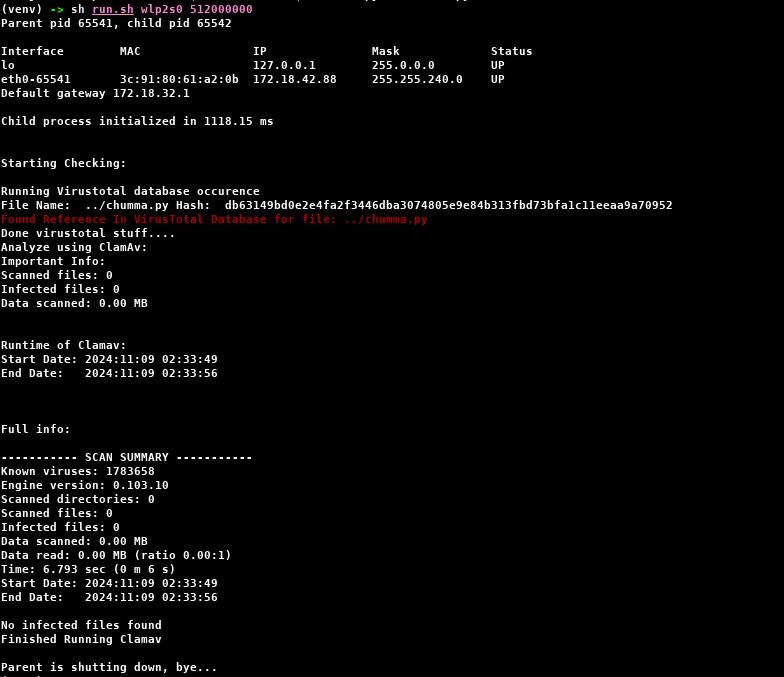
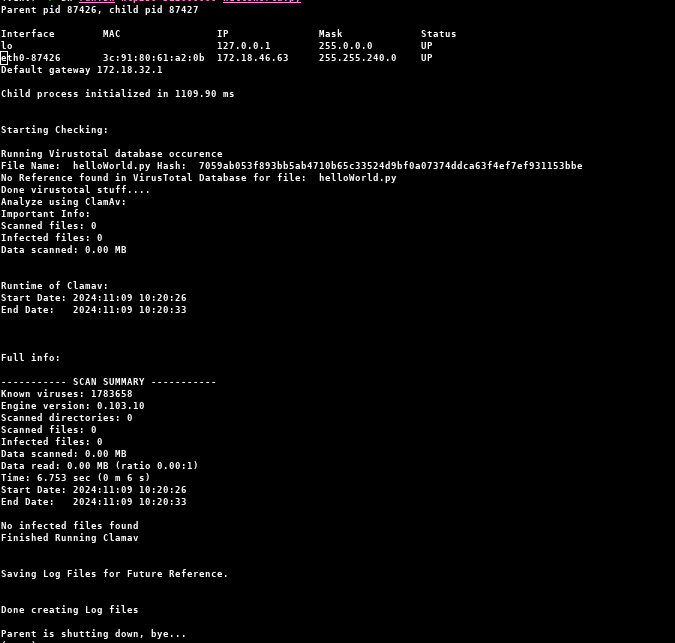
Developed Version 0.5

diff --git a/main.py b/main.py
@@ -1,7 +1,8 @@
 #!/home/elcot/Personal/problem1/venv/bin/python3
 import sys
+import argparse
 import os
-from dotenv import load_dotenv
+from dotenv import load_dotenv # this module is for protecting our API
 from check_vt import runVirusTotal
 from script import clamavStuff
 from datetime import datetime
@@ -15,51 +16,70 @@ API_KEY = os.getenv('API_KEY')
 
 # Global Variables
 # ANSI escape code for red text
-RED = "\033[31m"
+RED = "\033[31m" # READ ESCAPE COLOR
 RESET = "\033[0m"  # Reset to default color
 
+
+# Creating the parser
+parser = argparse.ArgumentParser(description='Malware Analysis Program')
+# Add arguments
+parser.add_argument('--file', type=str, required=True, help='The path to the file to process.')
+parser.add_argument('--network_status', type=str, choices=['yes', 'no'], default='no', help='Network status (yes or no).')
+# Parse the arguments
+args = parser.parse_args()
+
+
 def createLogFile():
-    # creating a log file for future reference or debugging
+    # creating timestamp of log files...that is changing name....one from json and another form clamavLog...
     log_file_name = datetime.now().strftime("%Y_%m_%d_%H_%M_%S")
-    log_path = "logs/"+log_file_name+".txt"
-    # creating log files for data storage
-    f = open(log_path, "w")
-    f.close()
-    
+    full_log_path = "logs/"+log_file_name
+
+    # if network is on then only change name of the json file
+    if(args.network_status != 'no'):
+        old_json_name = "logs/jsonData.json"
+        new_json_name = full_log_path+".json"
+        os.rename(old_json_name, new_json_name)
+
+    # changing name of clamavlog.txt to timestamp.txt
+    old_clamav_name = "logs/clamavLog.txt"
+    new_clamav_name = full_log_path+".txt"
+    os.rename(old_clamav_name, new_clamav_name)
     
 def main():
-    if(len(sys.argv) != 2):
-        print("No file path given\n")
-        print("Note: \n     Usage: python main.py <FILEPATH>")
-        sys.exit(1)
-
-    file_path = sys.argv[1]
+    # getting values from command arguments
+    file_path = args.file
+    network_flag = args.network_status
     
-    # first we will perform virustotal API stuff...
     print("\n")
     print("Starting Checking: \n")
-    print("Running Virustotal database occurence")
     
-    virustotalResponse = runVirusTotal(file_path, API_KEY)
-    
-    if(virustotalResponse == True):
-        print(f"{RED}Found Reference In VirusTotal Database for file: {file_path} {RESET}")
+    # if network is on then first we will perform virustotal API stuff...
+    if(network_flag != 'no'):
+        print("Running Virustotal database occurence")
+        virustotalResponse = runVirusTotal(file_path, API_KEY)
+        if(virustotalResponse == True):
+            print("Found Reference In VirusTotal Database for file: ", file_path)
+        else:
+            print("No Reference found in VirusTotal Database for file: ", file_path)
+        print("Done virustotal stuff....")
     else:
-        print("No Reference found in VirusTotal Database for file: ", file_path)
-
-    print("Done virustotal stuff....")
+        print("Network Restriction given thus not using virustotal API.\n")
     
     # now running clamav CLI tool
     print("Analyze using ClamAv: ")
-    
     clamavResponse = clamavStuff(file_path)
-    
     if(clamavResponse == False):
         print("No infected files found ")
     else:
-        print(f"{RED}Found Infected Files{RESET}")
-
+        print("Found Infected Files")
     print("Finished Running Clamav")
+
+    print("\n")
+    # logs are saved in /logs for future reference and debugging stuff....
+    print("Saving Log Files for Future Reference.")
+    createLogFile()
+    print("\n")
+    print("Done creating Log files")
         
 
 if __name__ == "__main__":

diff --git a/script.py b/script.py
@@ -6,19 +6,21 @@ RED = "\033[31m"
 RESET = "\033[0m"  # Reset to default color
 
 
+# This is our main function of this file....
 def clamavStuff(FILE_PATH):
     file_path = FILE_PATH
+    # equivalent of running clamscan -r file_path
     command = ['clamscan', '-r', file_path]
     
     result = subprocess.run(command, capture_output=True, text=True)
-    # print(result.stdout)
-    result_lines = result.stdout.split('\n')
+    result_lines = result.stdout.split('\n') # get output in list format with separator of new line
 
     # now we also want to save the output lines to one log file...
     with open("logs/clamavLog.txt", "w") as clamavF:
         for i in result_lines:
             clamavF.write(i+'\n')
 
+    # Displaying all important Info to the terminal
     print("Important Info: ")
     print(result_lines[5])
     print(result_lines[6])
@@ -31,9 +33,11 @@ def clamavStuff(FILE_PATH):
     print(result_lines[-2])
     print(result_lines[-1])
 
+    # Checks the number of infected files...
     num_infected_files = result_lines[5].split(' ')[-1]
     print('\n')
-    
+
+    # if the number of infected files is more than 0 then alert us.
     if(num_infected_files != '0'):
         return num_infected_files
 

diff --git a/check_vt.py b/check_vt.py
@@ -26,26 +26,19 @@ def check_hash(hash_value, API_KEY):
         return None
 
 
-# def check_file(file_path, API_KEY):
-#     with open(file_path) as f:
-#         files = {'files': (file_path,f)}
-#         response = requests.post(BASE_URL, headers={'x-apikey': API_KEY}, files=files)
-#         if response.status_code == 200:
-#             return response.json()
-#         else:
-#             return None
-
-
 def runVirusTotal(FILE_PATH, API_KEY):
     file_path = FILE_PATH
+    # equivalent of running sha256sum file_path in terminal...
     command = ['sha256sum', file_path]
     
     result = subprocess.run(command, capture_output=True, text=True)
+    # get output of the command with spliting of a whitespace
     result = result.stdout.split(' ')
     hash_value = result[0]
     
     print("File Name: ", FILE_PATH, "Hash: ", hash_value)
-    
+
+    # requests the totalvirus website for info of the given HASHVALUE
     hashValueresult = check_hash(hash_value, API_KEY)
     if hashValueresult:
         return True

diff --git a/helloWorld.py b/helloWorld.py
@@ -1,0 +1,1 @@
+print("Hellow")

diff --git a/README.md b/README.md
@@ -1,25 +1,62 @@
 # Automated Malware Analysis Platform
 
-### Approach Used:
-This project uses Linux Tools and shell scripts to identify Files pattern and other stuff to determine whether the given file is infected.
+# Description:
+We are building an automated malware analysis platform capable of determining whether a given file is malicious or not. We use various tools and scripts to build our programs. We even test our program with files called EICAR to test our programs capability.
 
+# Table of Contents:
+* Installation
+* Usage
+* Testing
+* More Info
+* Reference
+
+# Installation
+    git clone "https://github.com/Jitendra300/cyber-security-problem-statement-1"
+    cd cyber-security-problem-statement-1
+    pip install -r requirements.txt
+
+# Demo
+    sh run.sh <network_Status> <Ram_Allocation> <Testing_File_Path>
+Where <network_Status> is either wifi_device(in my case wlp2s0) or __no__, <Ram_Allocation> is the amount of RAM in bytes to be allocated to the Sandbox[in our case firejail], <Testing_File_Path> is the path of the file which has to be tested for malware analysis.
+
+# Example
+##### For having internet access inside the sandbox we can pass:
+    sh run.sh wlp2s0 512000000 chumma.sh
+##### For having no internet access inside the sandbox we can pass:
+    sh run.sh no 512000000 chumma.sh
+
+# More Info!
 ### Tools Used:
 * Firejail
-We used firejail for Sandbox program, well there have been various other alternatives like bubblewrap, qemu, and so on.... But firejail was better suited for this work.
-* API from Virustotal
-We also use the API key from virustotal for our project. We send request to the virustotal with sha256sum of the file and then virustotal checks whether its in their database or not.
 * Clamav
-Clamav is an open source analyzer which we have used to make our task easier, it has 1000s of virus information. Therefore it also suits our need.
+* Virustotal
 
-### Extra Info:
-We use virtualenv, and the requirements file is given. <br>
-We extensively use Linux as almost all of the malware analysis is done on GNU\Linux <br>
-We give network access to the firejail for requests purposes, and also provide it the RAM [in our case 512MB] <br>
-We also have kept CLI environment as its easier to use. <br>
+### Explanation:
+* Firejail: Firejail is sandbox program for Linux. It is designed to reduce the risk of security breaches by isolating untrusted applications. As our problem statement wanted us to use a sandbox program we used Firejail. 
+* ClamAV: ClamAV is a free and opensource antivirus toolkit designed primarily for detecting malware, including virues. It is widely used as it offers a robust solution for identifying malicious software. ClamAV is known for its versality and is often integrated into other security application.
+* Virustotal: Virustotal is a website which offers us a API to check SHA256SUM of files. We use this Virustotal API to check whether the file which we are analyzing matches any of those hashes in Virustotal dataset.
 
-### Current Output:
-![Output](/images/output.png)
-<br><br>
-    
-### Note:
-This is yet to be build project. <br>
+# QNA:
+1.) Why use only firejail as Sandbox?
+-> We had many other options like Cuckoo, bubblewrap, and etc. But we decided to choose firejail as it had a great community with easy configurations and was well maintained. Compare to Cuckoo which was written in ancient python2 and also BubbleWrap had great documentation but it was just too complex to implement.
+
+2.) Should malware be run on this? Wouldn't it penetrate into system very easily?
+-> Right concern! But we can configure firejail with more restriction. We can congigure which directory should be blacklisted in its profile config file. We can disable the network. We can only give permission to read. We can do a lot more! But the concern is right, we petty humans are not 100% good at security therefore extra precaution is always needed. We can run this sandbox inside another VMWare or Qemu. That way we have more protection. Remember __Preventation is better than Cure__.
+
+3.) Why use sha256sum method when a single change in character can change the sha256sum of the whole file?
+-> Yes we know that and that's why wouldn't use this API stuff much, and also getting answer from API requires internet which is a security concern when running anonymous files.
+
+4.) Why is the interface so poor?
+-> Well interface is very beautiful and simple. All it takes is few commands to run. And moreover this is how most of the hacking tools work to this day. They are CLI apps. Working with CLI is much easier. I know it might frighten the young lads but its definetly worthit. Using CLI makes more sense when dealing with low level stuff.
+
+# Future Projects:
+Maybe use Machine Learning and Neural Network Stuff to decide whether a given program might be malicious or not.
+
+# References:
+* https://github.com/netblue30/firejail
+* https://github.com/Cisco-Talos/clamav
+* https://www.virustotal.com/gui/home/upload
+
+# Acknowledgments:
+A big thank you to the open-source community for your contributions and support. Together, we make great things happen.
+
